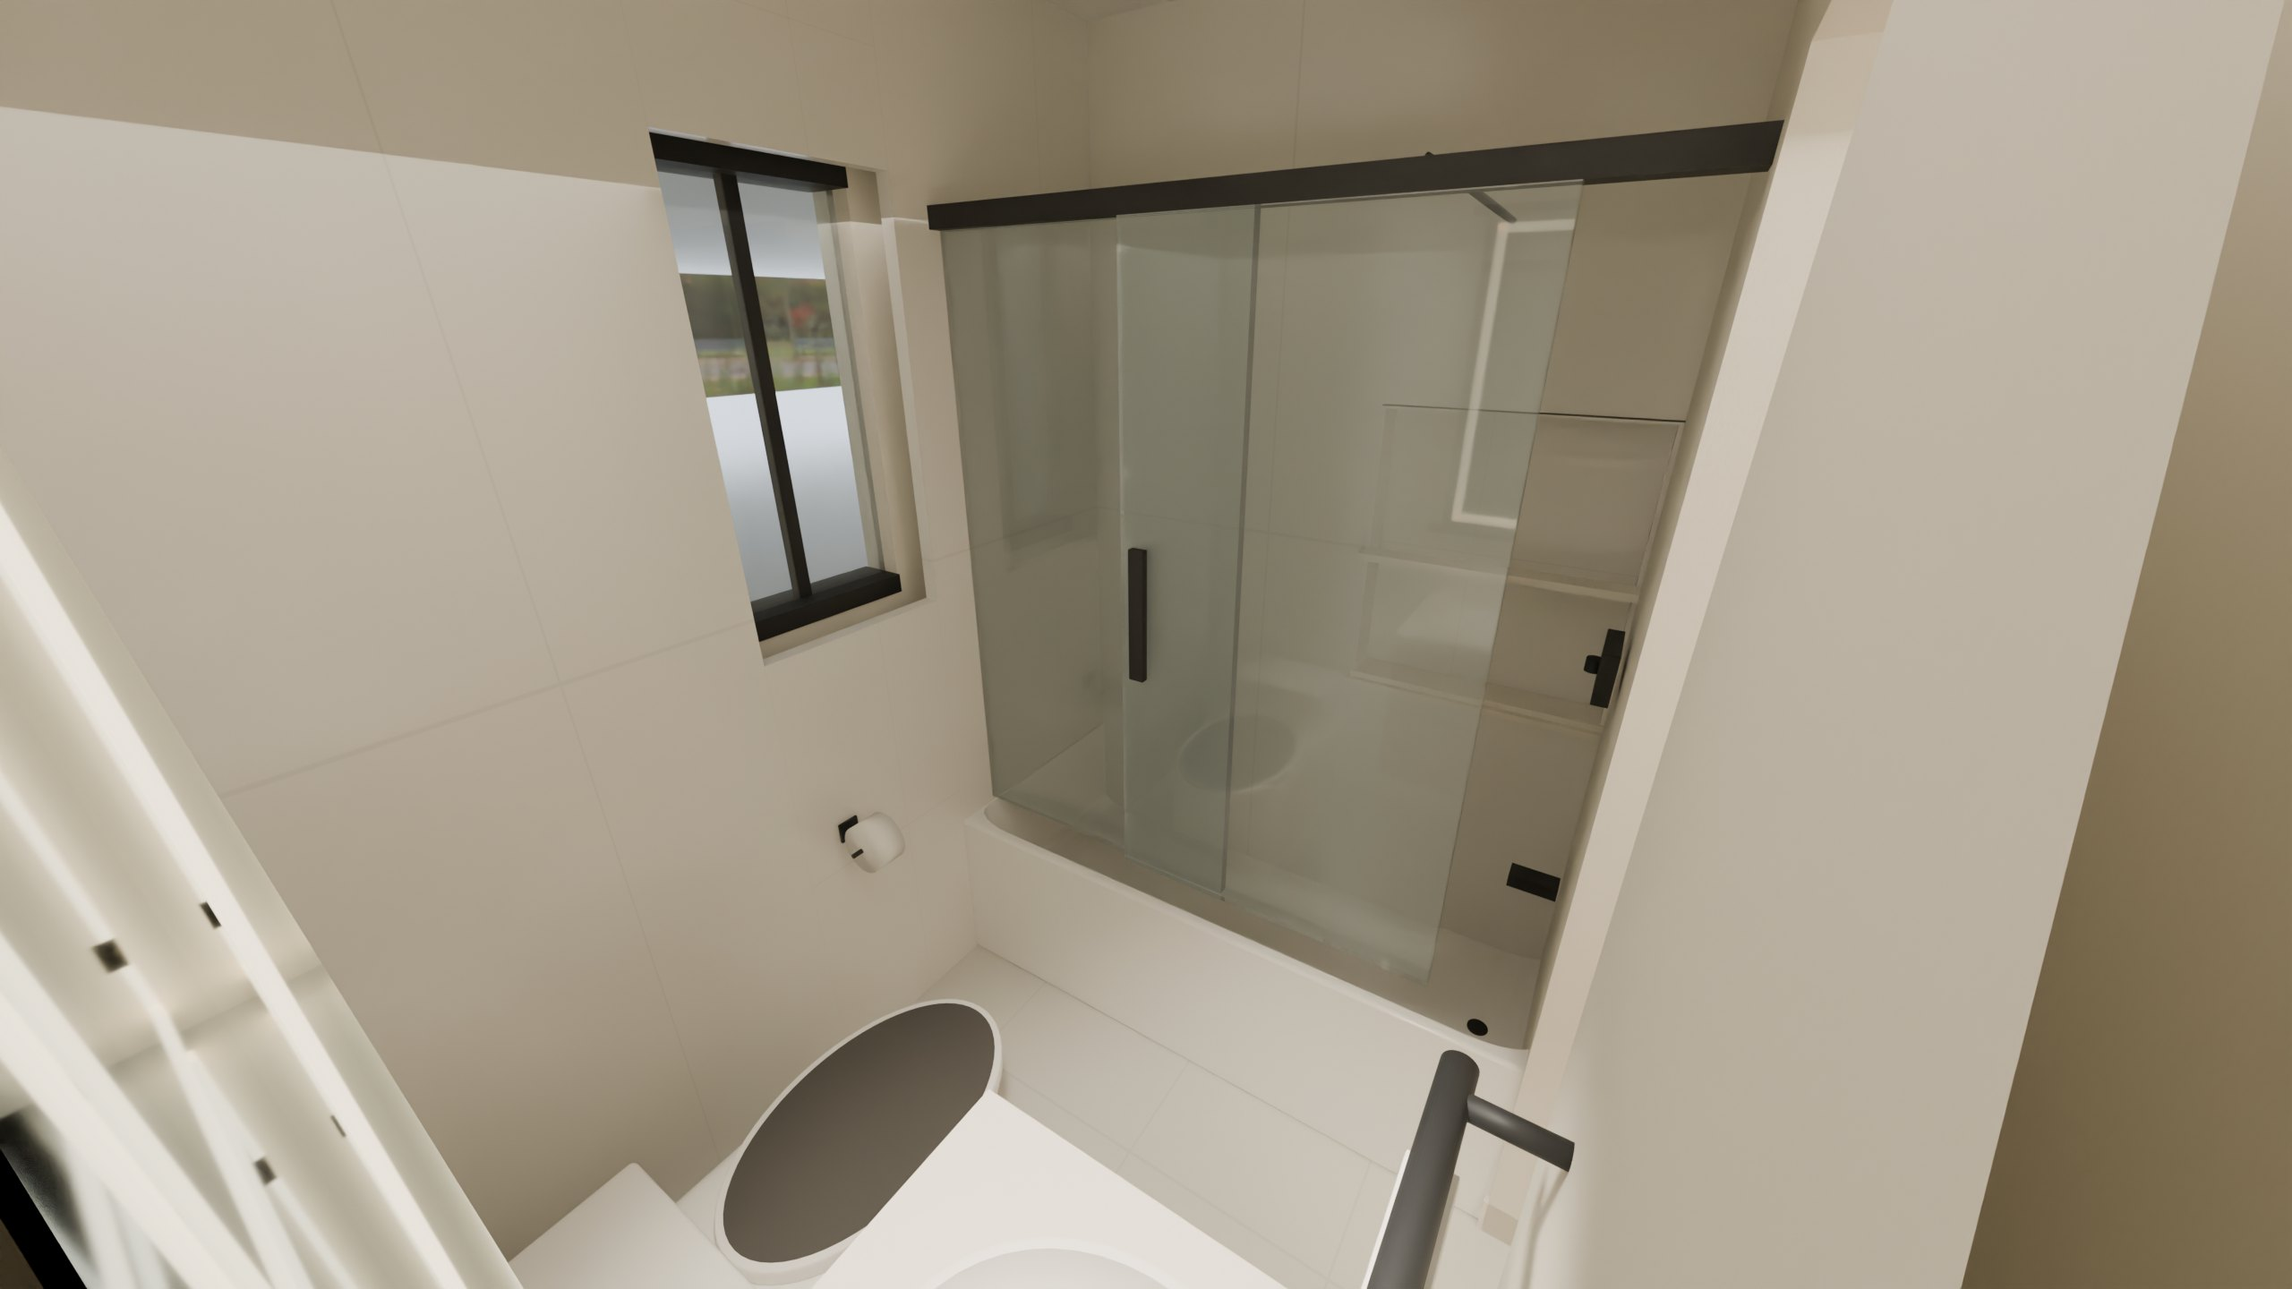
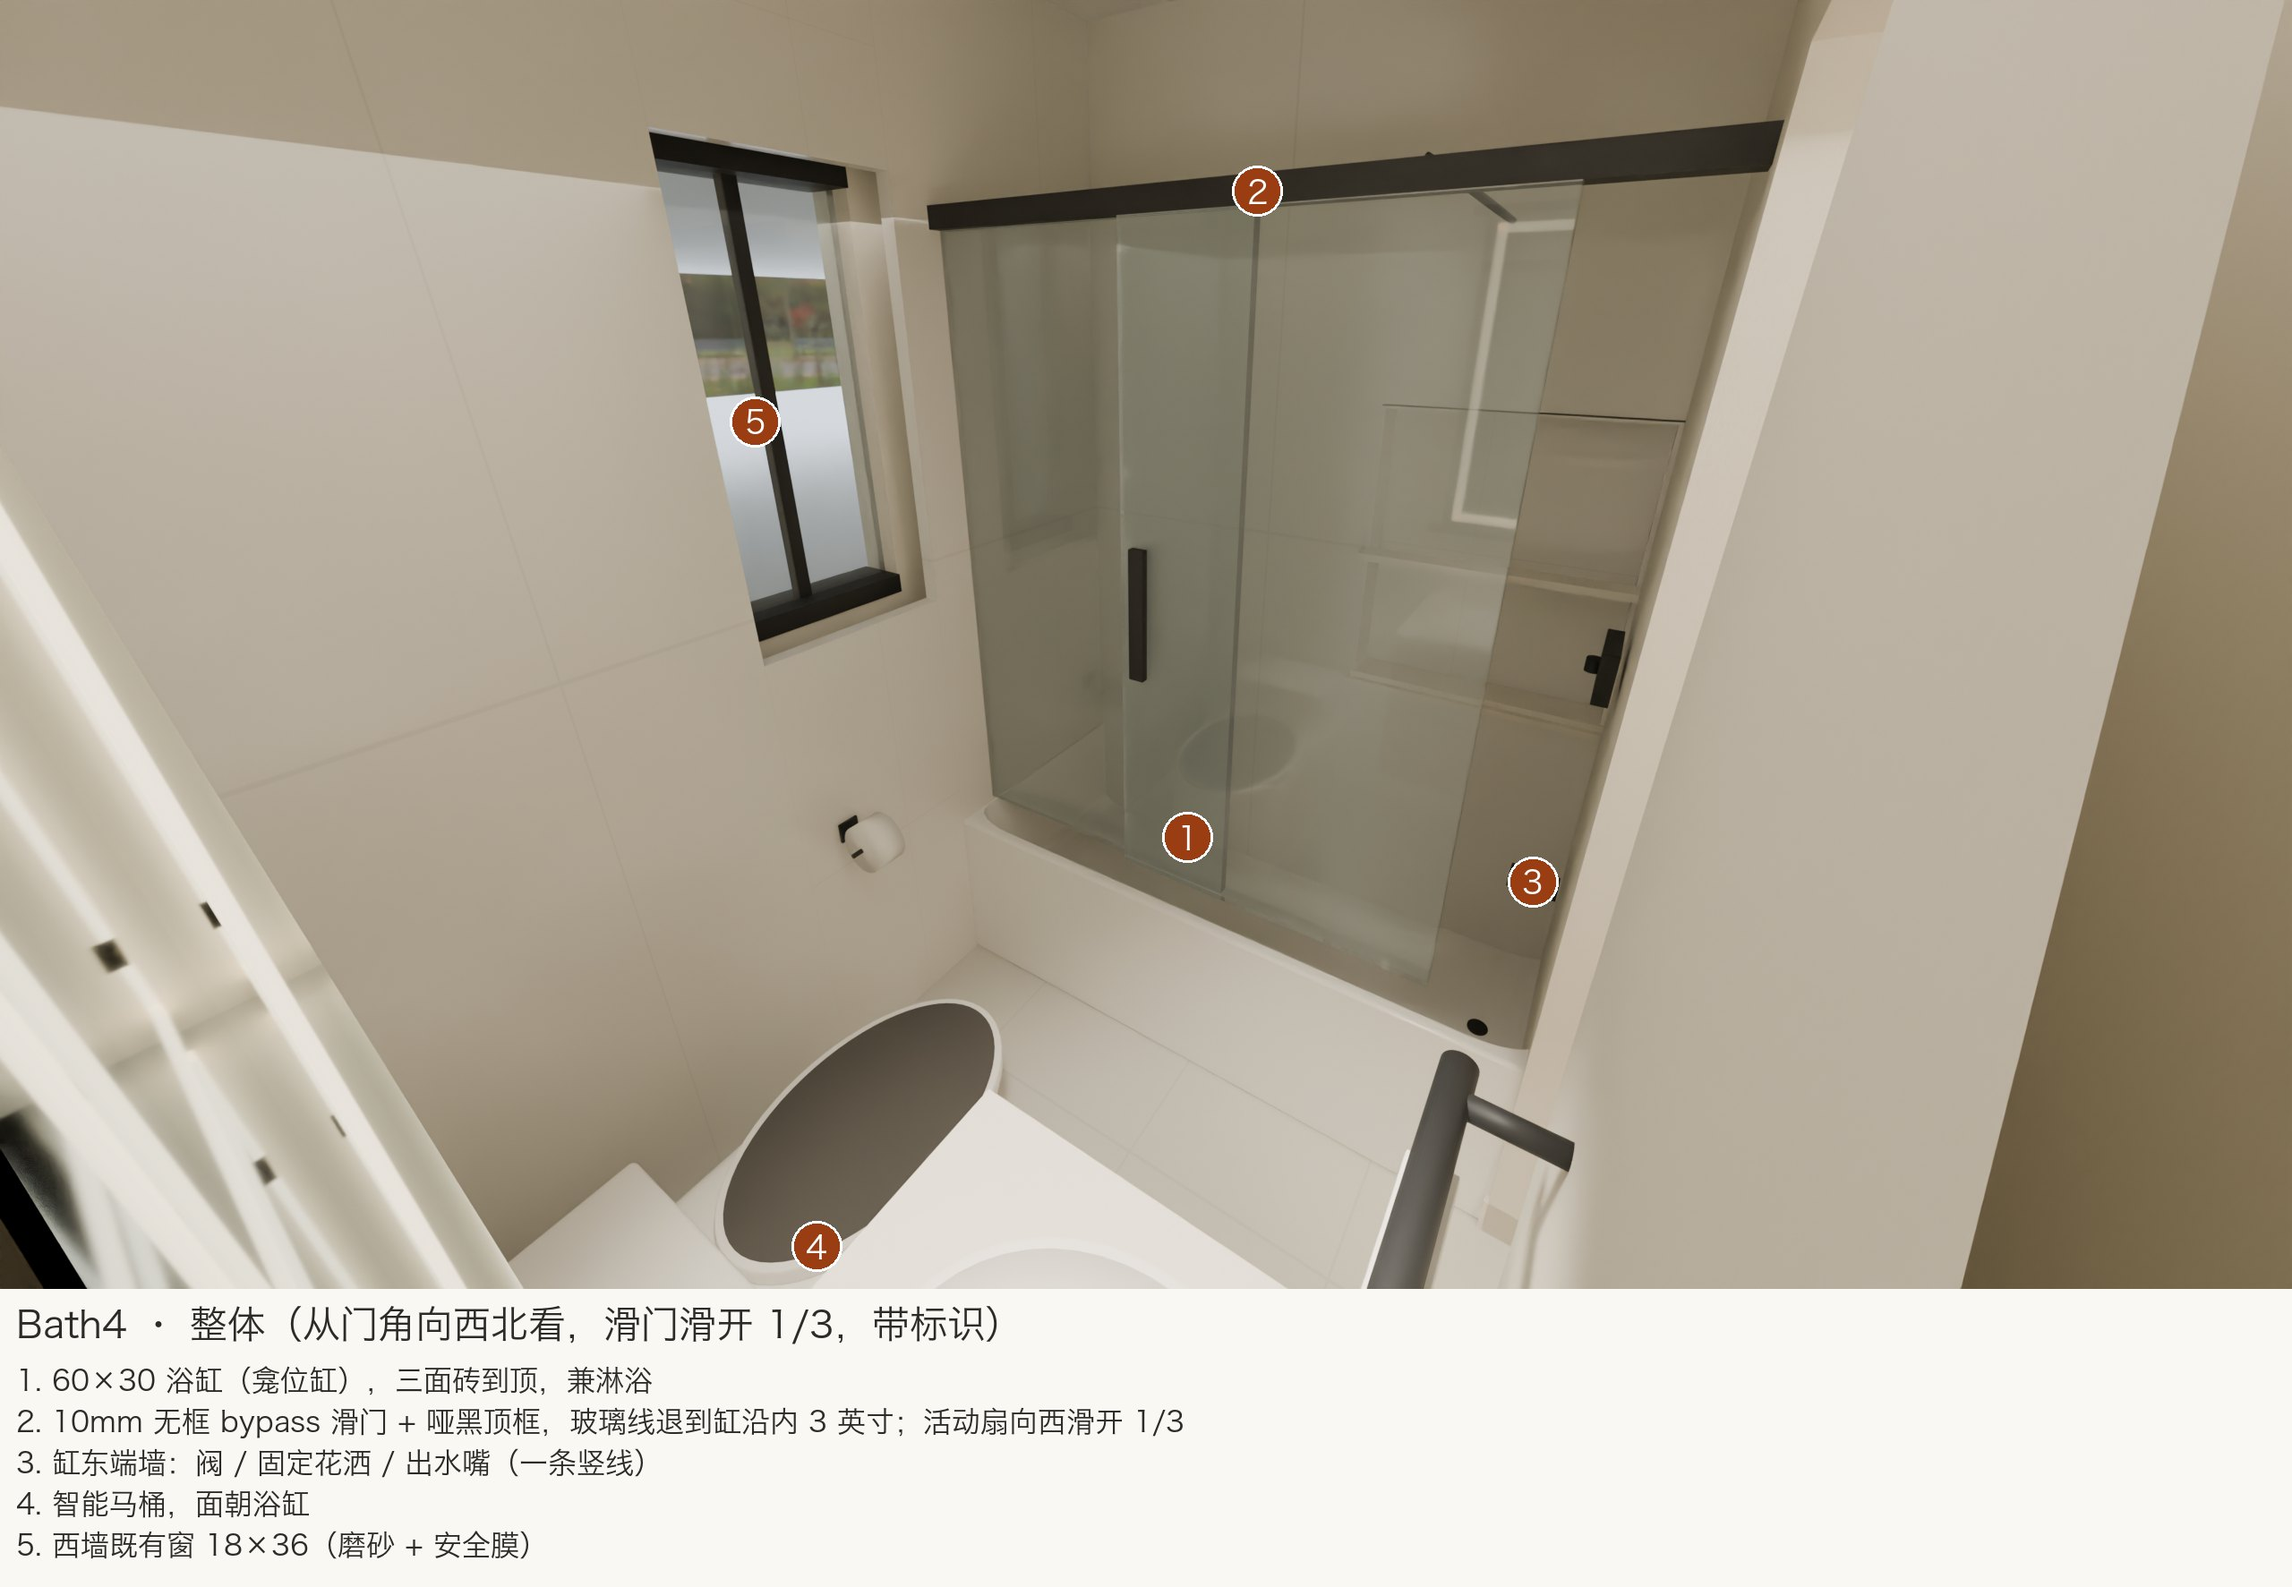
Crew UAT sync 2026-10-26: Bath4 overall annotated

diff --git a/UAT.html b/UAT.html
@@ -152,7 +152,7 @@ li.own,span.own{color:#6b5d3a}li.own::marker{color:#c9b48a}
 <h3 id="s11">11 · Bath4</h3>
 <div class="fig plan"><figure><img src="uat/zone-12.jpg" alt=""><figcaption><b>Bath4 · 平面</b> — 本区位置与各房间名称；细节看效果图。</figcaption></figure></div>
 
-<div class="fig three"><figure><img src="uat/B4-overall.jpg" alt=""><figcaption><b>Bath4 · 整体（从门角向西北看，滑门滑开 1/3）</b> — 北端 60×30 缸三面砖到顶，10mm 无框 bypass 滑门 + 哑黑顶杆退到缸沿内 3"（活动扇东端，玻璃高 62" 落缸沿）；右下：东墙 18" 毛巾杆 50"（浴巾 + 洗脸毛巾）；透过玻璃：北长墙东端 24×28 龛 + 石英搁板（靠花洒），东端墙固定花洒 / 阀 44" / 缸出水嘴；右：东墙房门。</figcaption></figure><figure><img src="uat/B4-inside-anno.jpg" alt=""><figcaption><b>Bath4 · 缸区内部（去滑门，从盆柜侧向北看，带标识）</b> — 北长墙东端 24×28 龛（靠花洒；底 34" 顶 62"，石英搁板落 48" 缝，龛底石英）；东端墙自上而下：固定花洒、阀 44"、缸出水嘴；缸排水东端。</figcaption></figure><figure><img src="uat/B4-vanity.jpg" alt=""><figcaption><b>Bath4 盆柜与马桶（从缸端向南看，去滑门）</b> — 盆柜与马桶并排靴南墙、都面朝浴缸：东端 24" 白橡悬挂单盆柜（柜底 15"）+ 24×36 黑框 LED 镜（44–80"）；马桶在盆柜西侧，中心距西墙 17"、距盆柜 17½"；纸架在西墙砖面、马桶左手、卷心在马桶前沿前约 8"、26"；左上：西墙窗；右：东墙房门（内开，90° 限位）。</figcaption></figure></div>
+<div class="fig three"><figure><img src="uat/B4-overall.jpg" alt=""><figcaption><b>Bath4 · 整体（从门角向西北看，滑门滑开 1/3，带标识）</b> — 北端 60×30 缸三面砖到顶，10mm 无框 bypass 滑门 + 哑黑顶杆退到缸沿内 3"（活动扇东端，玻璃高 62" 落缸沿）；右下：东墙 18" 毛巾杆 50"（浴巾 + 洗脸毛巾）；透过玻璃：北长墙东端 24×28 龛 + 石英搁板（靠花洒），东端墙固定花洒 / 阀 44" / 缸出水嘴；右：东墙房门。</figcaption></figure><figure><img src="uat/B4-inside-anno.jpg" alt=""><figcaption><b>Bath4 · 缸区内部（去滑门，从盆柜侧向北看，带标识）</b> — 北长墙东端 24×28 龛（靠花洒；底 34" 顶 62"，石英搁板落 48" 缝，龛底石英）；东端墙自上而下：固定花洒、阀 44"、缸出水嘴；缸排水东端。</figcaption></figure><figure><img src="uat/B4-vanity.jpg" alt=""><figcaption><b>Bath4 盆柜与马桶（从缸端向南看，去滑门）</b> — 盆柜与马桶并排靴南墙、都面朝浴缸：东端 24" 白橡悬挂单盆柜（柜底 15"）+ 24×36 黑框 LED 镜（44–80"）；马桶在盆柜西侧，中心距西墙 17"、距盆柜 17½"；纸架在西墙砖面、马桶左手、卷心在马桶前沿前约 8"、26"；左上：西墙窗；右：东墙房门（内开，90° 限位）。</figcaption></figure></div>
 
 <div class="fig wide"><figure><img src="uat/tile-B4.jpg" alt=""><figcaption><b>Bath4 · 四面墙贴砖范围</b> — 缸区三面（北长墙 61" 整面 + 东、西端墙各 29" 到滑门面）砖到顶，其余全高浴室级 PT-01；Kerdi 预制龛在北长墙东端（靴花洒）。</figcaption></figure></div>
 

diff --git a/index.html b/index.html
@@ -152,7 +152,7 @@ li.own,span.own{color:#6b5d3a}li.own::marker{color:#c9b48a}
 <h3 id="s11">11 · Bath4</h3>
 <div class="fig plan"><figure><img src="uat/zone-12.jpg" alt=""><figcaption><b>Bath4 · 平面</b> — 本区位置与各房间名称；细节看效果图。</figcaption></figure></div>
 
-<div class="fig three"><figure><img src="uat/B4-overall.jpg" alt=""><figcaption><b>Bath4 · 整体（从门角向西北看，滑门滑开 1/3）</b> — 北端 60×30 缸三面砖到顶，10mm 无框 bypass 滑门 + 哑黑顶杆退到缸沿内 3"（活动扇东端，玻璃高 62" 落缸沿）；右下：东墙 18" 毛巾杆 50"（浴巾 + 洗脸毛巾）；透过玻璃：北长墙东端 24×28 龛 + 石英搁板（靠花洒），东端墙固定花洒 / 阀 44" / 缸出水嘴；右：东墙房门。</figcaption></figure><figure><img src="uat/B4-inside-anno.jpg" alt=""><figcaption><b>Bath4 · 缸区内部（去滑门，从盆柜侧向北看，带标识）</b> — 北长墙东端 24×28 龛（靠花洒；底 34" 顶 62"，石英搁板落 48" 缝，龛底石英）；东端墙自上而下：固定花洒、阀 44"、缸出水嘴；缸排水东端。</figcaption></figure><figure><img src="uat/B4-vanity.jpg" alt=""><figcaption><b>Bath4 盆柜与马桶（从缸端向南看，去滑门）</b> — 盆柜与马桶并排靴南墙、都面朝浴缸：东端 24" 白橡悬挂单盆柜（柜底 15"）+ 24×36 黑框 LED 镜（44–80"）；马桶在盆柜西侧，中心距西墙 17"、距盆柜 17½"；纸架在西墙砖面、马桶左手、卷心在马桶前沿前约 8"、26"；左上：西墙窗；右：东墙房门（内开，90° 限位）。</figcaption></figure></div>
+<div class="fig three"><figure><img src="uat/B4-overall.jpg" alt=""><figcaption><b>Bath4 · 整体（从门角向西北看，滑门滑开 1/3，带标识）</b> — 北端 60×30 缸三面砖到顶，10mm 无框 bypass 滑门 + 哑黑顶杆退到缸沿内 3"（活动扇东端，玻璃高 62" 落缸沿）；右下：东墙 18" 毛巾杆 50"（浴巾 + 洗脸毛巾）；透过玻璃：北长墙东端 24×28 龛 + 石英搁板（靠花洒），东端墙固定花洒 / 阀 44" / 缸出水嘴；右：东墙房门。</figcaption></figure><figure><img src="uat/B4-inside-anno.jpg" alt=""><figcaption><b>Bath4 · 缸区内部（去滑门，从盆柜侧向北看，带标识）</b> — 北长墙东端 24×28 龛（靠花洒；底 34" 顶 62"，石英搁板落 48" 缝，龛底石英）；东端墙自上而下：固定花洒、阀 44"、缸出水嘴；缸排水东端。</figcaption></figure><figure><img src="uat/B4-vanity.jpg" alt=""><figcaption><b>Bath4 盆柜与马桶（从缸端向南看，去滑门）</b> — 盆柜与马桶并排靴南墙、都面朝浴缸：东端 24" 白橡悬挂单盆柜（柜底 15"）+ 24×36 黑框 LED 镜（44–80"）；马桶在盆柜西侧，中心距西墙 17"、距盆柜 17½"；纸架在西墙砖面、马桶左手、卷心在马桶前沿前约 8"、26"；左上：西墙窗；右：东墙房门（内开，90° 限位）。</figcaption></figure></div>
 
 <div class="fig wide"><figure><img src="uat/tile-B4.jpg" alt=""><figcaption><b>Bath4 · 四面墙贴砖范围</b> — 缸区三面（北长墙 61" 整面 + 东、西端墙各 29" 到滑门面）砖到顶，其余全高浴室级 PT-01；Kerdi 预制龛在北长墙东端（靴花洒）。</figcaption></figure></div>
 
